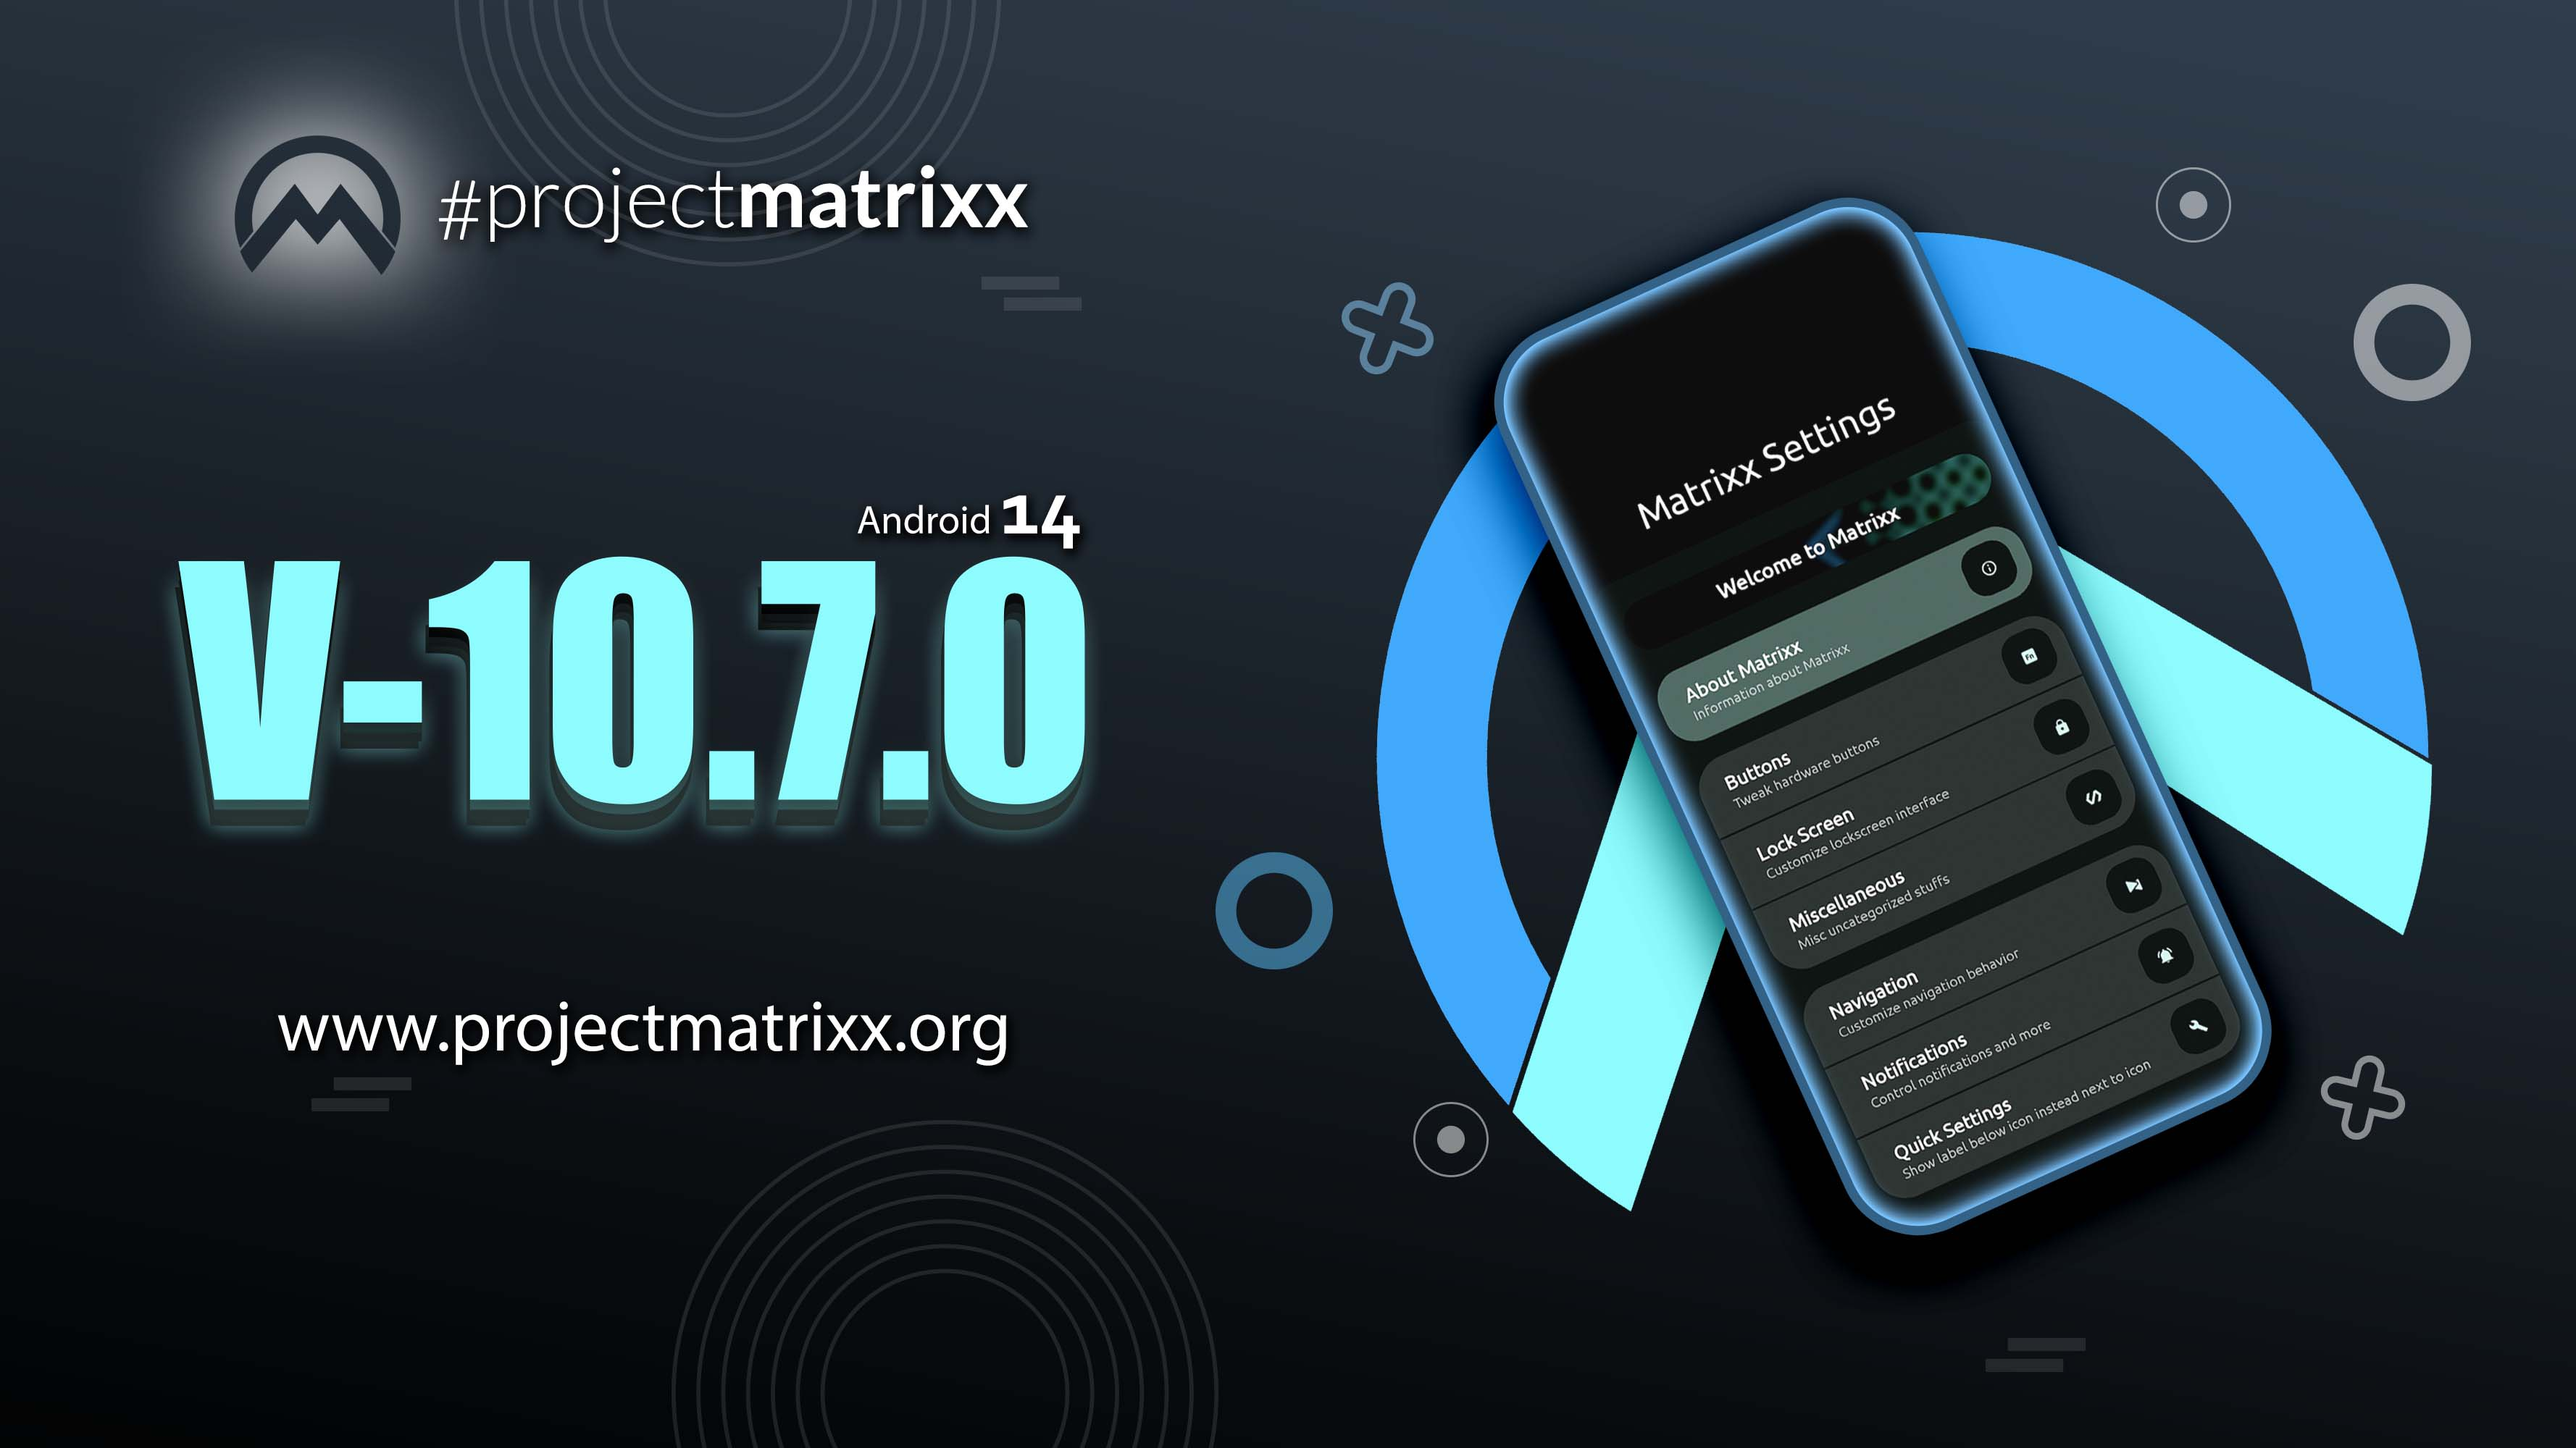
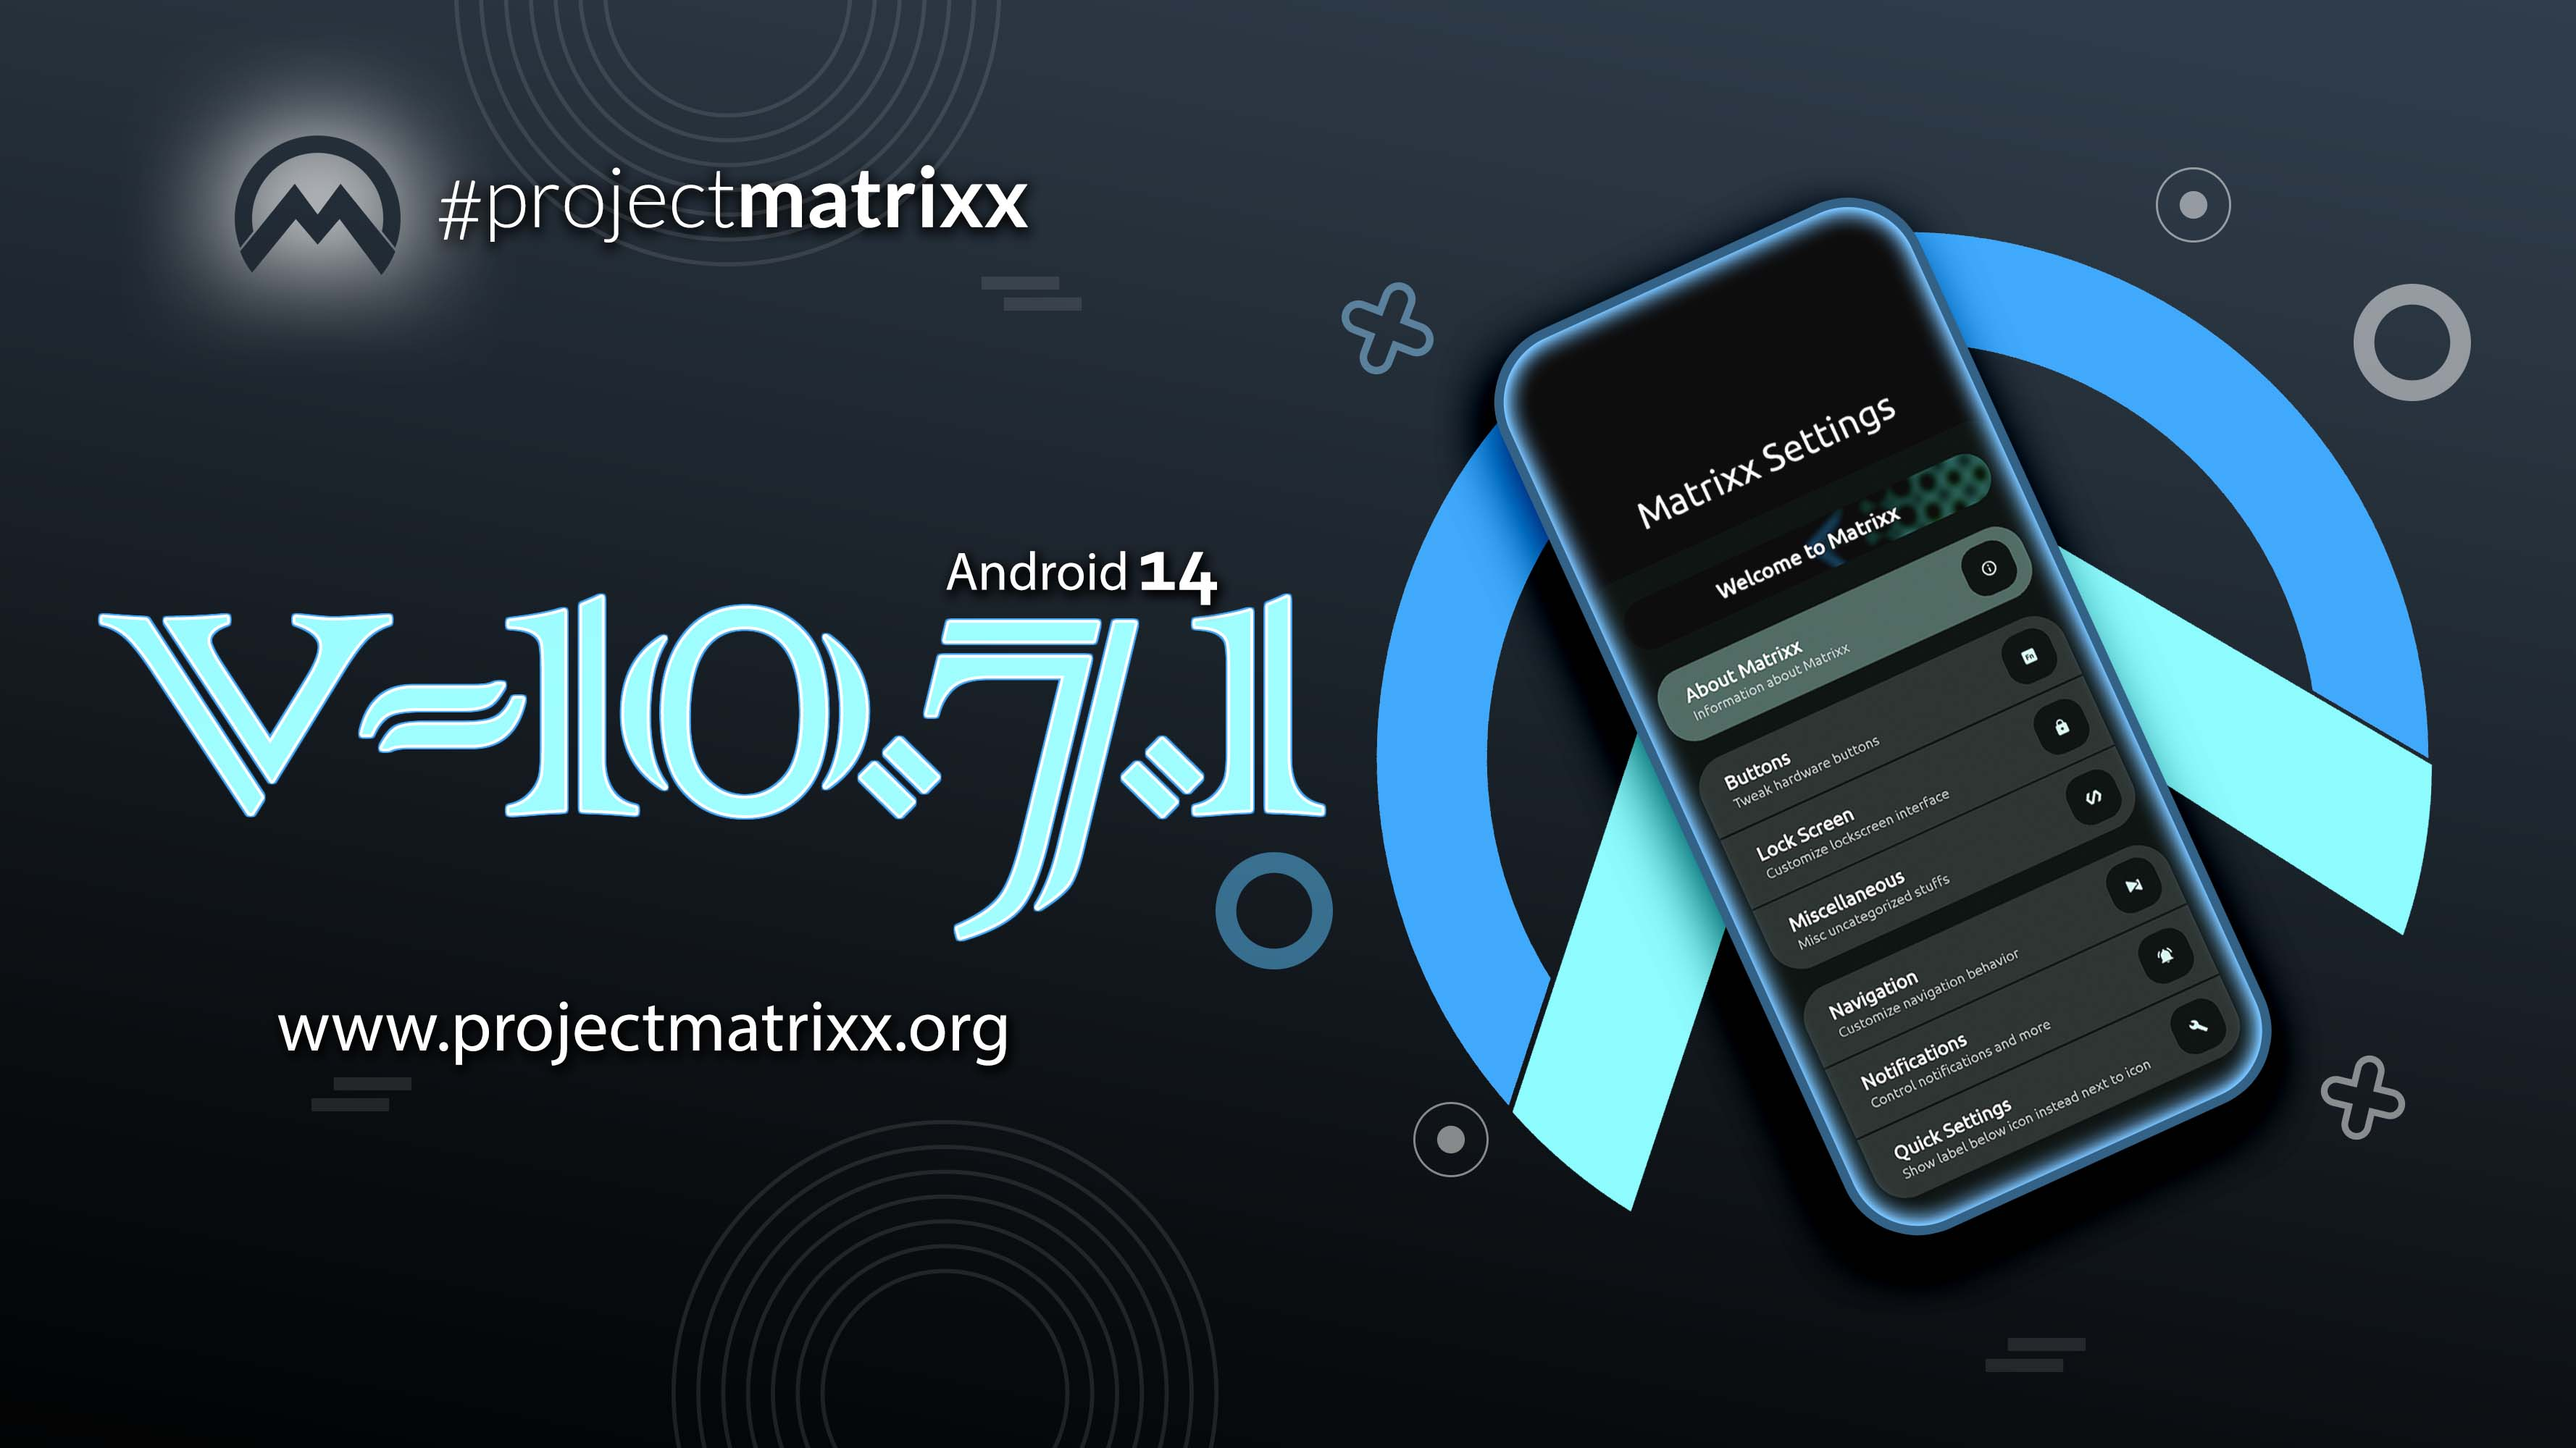
Matrixx v10.7.1 update

Changed region(s): [[0.0312, 0.341, 0.5307, 0.651]]

diff --git a/changelogs/source_changelog.md b/changelogs/source_changelog.md
@@ -1,3 +1,13 @@
+# Matrixx v-10.7.1 Changelog
+
+- Update release version to 10.7.1
+- Added Allow to enforce user selected resolution
+- Added back force monochrome theme icons option
+- Fixed alpha transparency on AOD mode
+- Fixed baking apps check for encryption status 
+- Fixed Google play integrity
+- Updated themed icons
+
 # Matrixx v-10.7.0 Changelog
 
 - Update release version to 10.7.0
